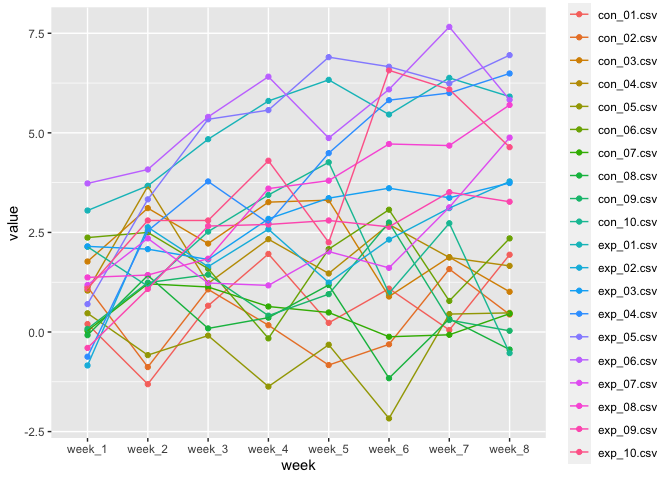
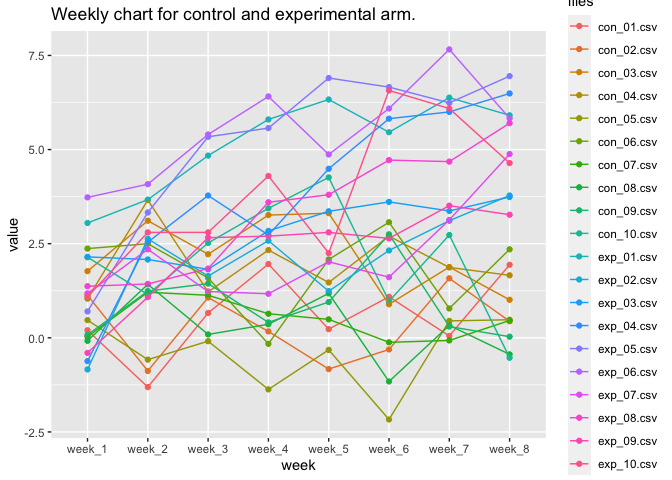
update

diff --git a/yy3103_HW5.md b/yy3103_HW5.md
@@ -52,15 +52,8 @@ res res %&gt;% broom::tidy() res
 ``` r
 files=
   list.files (path = "./data")
-files
-```
 
-    ##  [1] "con_01.csv" "con_02.csv" "con_03.csv" "con_04.csv" "con_05.csv"
-    ##  [6] "con_06.csv" "con_07.csv" "con_08.csv" "con_09.csv" "con_10.csv"
-    ## [11] "exp_01.csv" "exp_02.csv" "exp_03.csv" "exp_04.csv" "exp_05.csv"
-    ## [16] "exp_06.csv" "exp_07.csv" "exp_08.csv" "exp_09.csv" "exp_10.csv"
 
-``` r
 file_data=
   list.files (path = "./data") %>%
   map_df(read_csv)
@@ -327,61 +320,8 @@ file_data=
     ## )
 
 ``` r
-file_data
-```
-
-    ## # A tibble: 20 x 8
-    ##    week_1 week_2 week_3 week_4 week_5 week_6 week_7 week_8
-    ##     <dbl>  <dbl>  <dbl>  <dbl>  <dbl>  <dbl>  <dbl>  <dbl>
-    ##  1   0.2   -1.31   0.66   1.96   0.23   1.09   0.05   1.94
-    ##  2   1.13  -0.88   1.07   0.17  -0.83  -0.31   1.58   0.44
-    ##  3   1.77   3.11   2.22   3.26   3.31   0.89   1.88   1.01
-    ##  4   1.04   3.66   1.22   2.33   1.47   2.7    1.87   1.66
-    ##  5   0.47  -0.58  -0.09  -1.37  -0.32  -2.17   0.45   0.48
-    ##  6   2.37   2.5    1.59  -0.16   2.08   3.07   0.78   2.35
-    ##  7   0.03   1.21   1.13   0.64   0.49  -0.12  -0.07   0.46
-    ##  8  -0.08   1.42   0.09   0.36   1.18  -1.16   0.33  -0.44
-    ##  9   0.08   1.24   1.44   0.41   0.95   2.75   0.3    0.03
-    ## 10   2.14   1.15   2.52   3.44   4.26   0.97   2.73  -0.53
-    ## 11   3.05   3.67   4.84   5.8    6.33   5.46   6.38   5.91
-    ## 12  -0.84   2.63   1.64   2.58   1.24   2.32   3.11   3.78
-    ## 13   2.15   2.08   1.82   2.84   3.36   3.61   3.37   3.74
-    ## 14  -0.62   2.54   3.78   2.73   4.49   5.82   6      6.49
-    ## 15   0.7    3.33   5.34   5.57   6.9    6.66   6.24   6.95
-    ## 16   3.73   4.08   5.4    6.41   4.87   6.09   7.66   5.83
-    ## 17   1.18   2.35   1.23   1.17   2.02   1.61   3.13   4.88
-    ## 18   1.37   1.43   1.84   3.6    3.8    4.72   4.68   5.7 
-    ## 19  -0.4    1.08   2.66   2.7    2.8    2.64   3.51   3.27
-    ## 20   1.09   2.8    2.8    4.3    2.25   6.57   6.09   4.64
-
-``` r
 combine=cbind(files,file_data)
-combine
-```
 
-    ##         files week_1 week_2 week_3 week_4 week_5 week_6 week_7 week_8
-    ## 1  con_01.csv   0.20  -1.31   0.66   1.96   0.23   1.09   0.05   1.94
-    ## 2  con_02.csv   1.13  -0.88   1.07   0.17  -0.83  -0.31   1.58   0.44
-    ## 3  con_03.csv   1.77   3.11   2.22   3.26   3.31   0.89   1.88   1.01
-    ## 4  con_04.csv   1.04   3.66   1.22   2.33   1.47   2.70   1.87   1.66
-    ## 5  con_05.csv   0.47  -0.58  -0.09  -1.37  -0.32  -2.17   0.45   0.48
-    ## 6  con_06.csv   2.37   2.50   1.59  -0.16   2.08   3.07   0.78   2.35
-    ## 7  con_07.csv   0.03   1.21   1.13   0.64   0.49  -0.12  -0.07   0.46
-    ## 8  con_08.csv  -0.08   1.42   0.09   0.36   1.18  -1.16   0.33  -0.44
-    ## 9  con_09.csv   0.08   1.24   1.44   0.41   0.95   2.75   0.30   0.03
-    ## 10 con_10.csv   2.14   1.15   2.52   3.44   4.26   0.97   2.73  -0.53
-    ## 11 exp_01.csv   3.05   3.67   4.84   5.80   6.33   5.46   6.38   5.91
-    ## 12 exp_02.csv  -0.84   2.63   1.64   2.58   1.24   2.32   3.11   3.78
-    ## 13 exp_03.csv   2.15   2.08   1.82   2.84   3.36   3.61   3.37   3.74
-    ## 14 exp_04.csv  -0.62   2.54   3.78   2.73   4.49   5.82   6.00   6.49
-    ## 15 exp_05.csv   0.70   3.33   5.34   5.57   6.90   6.66   6.24   6.95
-    ## 16 exp_06.csv   3.73   4.08   5.40   6.41   4.87   6.09   7.66   5.83
-    ## 17 exp_07.csv   1.18   2.35   1.23   1.17   2.02   1.61   3.13   4.88
-    ## 18 exp_08.csv   1.37   1.43   1.84   3.60   3.80   4.72   4.68   5.70
-    ## 19 exp_09.csv  -0.40   1.08   2.66   2.70   2.80   2.64   3.51   3.27
-    ## 20 exp_10.csv   1.09   2.80   2.80   4.30   2.25   6.57   6.09   4.64
-
-``` r
 tidy=
   combine%>%
   pivot_longer(
@@ -389,28 +329,10 @@ tidy=
     names_to = "week",
     values_to = "value"
   )
-tidy
-```
 
-    ## # A tibble: 160 x 3
-    ##    files      week   value
-    ##    <chr>      <chr>  <dbl>
-    ##  1 con_01.csv week_1  0.2 
-    ##  2 con_01.csv week_2 -1.31
-    ##  3 con_01.csv week_3  0.66
-    ##  4 con_01.csv week_4  1.96
-    ##  5 con_01.csv week_5  0.23
-    ##  6 con_01.csv week_6  1.09
-    ##  7 con_01.csv week_7  0.05
-    ##  8 con_01.csv week_8  1.94
-    ##  9 con_02.csv week_1  1.13
-    ## 10 con_02.csv week_2 -0.88
-    ## # … with 150 more rows
-
-``` r
 plot=
   tidy %>%
-  ggplot(aes(x=week,y=value,group=files,color=files))+geom_point()+geom_line()
+  ggplot(aes(x=week,y=value,group=files,color=files))+geom_point()+geom_line()+ ggtitle('Weekly chart for control and experimental arm.')
 plot
 ```
 
